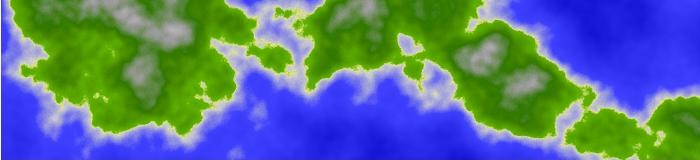
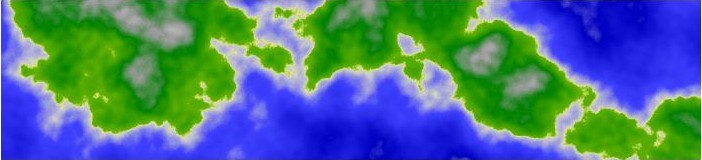
Big revision of Terra Map tutorial includes new diagrams and code tweaks

diff --git a/src/com/adonax/tutorial/pageContent/Terra.html b/src/com/adonax/tutorial/pageContent/Terra.html
@@ -114,60 +114,107 @@ value to index in and inspect the color data.</p>
 <p>For the purposes of the tutorial, I have created a ColorMap class
 which allows us to procedurally create a structure that we can
 index into. I made the length of the ColorMap equal 256, so we
-can use the same scaling we used for our color values previously.</p>
+can use the same scaling we used for our color values previously.
+The values used in this map can be seen in the following graphic, 
+where we show the data as it is held in the Color Gradient editing 
+tool that is located on the bottom right corner of the Texture 
+Editing tool.</p>
 
-<p>The gradients on the color map are created by interpolating
-the color values we place in the map as "pegs". If there were only
-two pegs, one of white and the other of blue, we would get the same
-result as we do for the Clouds colors. If the two pegs were the same
-shades of brown used in the Tree Rings example, the resulting
-intermediate colors would also be the same. In fact, the Texture 
-Tool's default is to use a structure very similar to the ColorMap 
-object I've provided.</p>
+<p><i><b>Fig. 1, Terra Color Map via the Color Gradient editing
+tool.</b></i></p>
+<img SRC="../images/TerraColorMap.JPG" width="306" height="362" 
+hspace="10" vspace="10" ALT="Terra Color Map"/>
 
-<p>The particular gradient I created is modeled on one shown in a
-tutorial by Shannon Smith (aka AngryOctapus at 
-http://www.angryoctopus.co.nz/?p=11). He says his gradient was a
-preset in Gimp. </p>
+<p>At the top of the diagram is a strip of continuously changing
+colors that shows the Color Map laid out from left to right. Below
+are a series of rows and columns that define and hold the <i>peg</i> 
+values. From left to right, the text fields hold the following data: 
+(1) pixel position, (2) a color swatch, (3) the Red value, (4) the 
+Green value, (5) the Blue value. Lastly, there are DEL buttons delete
+the given color peg.</p>
+
+<p>The <i>pegs</i> are fixed positions in the map that match the 
+indicated RGB values. The gradients in between the <i>pegs</i> are 
+created by linear interpolation the color values.</p>
+
+<p>In both the previous examples (<i>Tree Rings</i> and <i>Classic 
+Clouds</i>, the Texture Editor uses Color Maps in a way that matches
+the range of color values computed in the code examples. For the 
+Clouds, the noise values are scaled to 0 to 255 and placed into the
+Red and Green color channels. With a color mapping function, the 0 to
+255 indexes into the map to obtain the color data for all the color
+channels, and the values are the same since the map uses linear 
+interpolation.</p>
+
+<p>Likewise, with the Tree Rings, the noise values are given a 
+scaling and translation to fit within a certain range of browns. 
+With a color map, the two browns are set to be the first and last
+elements of the map, and a single scaling of the noise value to 0 to 
+255 is able to obtain all the color channels. Using a map can thus
+lead to an increase in efficiency when we would otherwise have to 
+apply different scaling & translating for each color.</p>
+
+<p>The <i>Terra Surface</i> texture is just a slightly more 
+complicated version of this in that there are more colors involved,
+and on the fly calculation of the individual color channels would be
+even more costly.</i>
+ 
+<p>The particular gradient used here is modeled on one shown 
+in a tutorial by Shannon Smith (aka <i>AngryOctapus</i> at <code>
+http://www.angryoctopus.co.nz/?p=11</code>). He says got this 
+gradient from a selection of preset gradients included in Gimp. I've
+done my best to match the colors by eye, but the matching could be 
+better, and I've left out the use of white at the far right of his 
+example due to being restricted to 8 pegs.</p>
 
 <p><i>[Shannon goes on to turn the 2D planet surface gradient into
-a 3D planet graphic, so you might want to take a look at that. I'm 
-not going to discuss 3D in this introductory tutorial.]</i></p> 
+a 3D planet graphic, so you might want to to check that out! I'm 
+not planning to get into 3D in this introductory tutorial.]</i></p> 
 
 <p>You can get a closer look at the gradient used in our example 
-by bringing it up in the ColorBar editing tool on the bottom right
-of the Texture Tool. From there, you can try tinkering with the 
-colors and their placements. Unfortunately, I limited the Color Map
-editing tool to 8 color pegs. Also limiting is that the only method
-used to bridge the pegs is linear interpolation. I did add the 
-ability to optionally interpolate over HSB color space, and added a 
-few short cut buttons for reversing direction and converting the 
-colors to their RGB "negatives." But much more could be accomplished, 
-I think, if some form of curve-fitting were made optionally possible.
-It would be good to be able to lessen the tendency of "cornering" 
-(discontinuities of direction) which tends to catch the eye at the 
+by bringing it up in the Color Gradient editing tool on the bottom 
+right of the Texture Tool. From there, you can try tinkering with 
+the colors and their placements. The tool has its limitations. In 
+addition to only allowing 8 color pegs, the only method used to 
+bridge the pegs is linear interpolation. Fancier tools will allow 
+more interesting forms of curve fitting. I did add the ability to 
+optionally interpolate over HSB color space, and added a few short 
+cut buttons for reversing direction or converting the colors to 
+their RGB "negatives." I think, if some form of curve-fitting were 
+possible, we might be able to lessen the tendency of "cornering"
+(discontinuities of direction) which tends to catch the eye at the
 peg points.</p>
 
 <p><b>Editing the sample code directly</b></p>
 
-<p>In addition to playing around with the texture values on the Texture
-Editing tool, I hope you are spending some time directly tinkering
-with the sample code. For this example, I'd like to just that.</p>
+<p>In addition to playing around with the texture values on the 
+Texture Editing tool, I hope you are spending some time directly 
+tinkering with the sample code. For this example, I'd like to just 
+that.</p>
 
-<p>One thing you might have noticed is that in the scaling and 
-volume arrays, I "skipped" octaves. This was, in part, because I
+<h2>Instructions for running the code at the top of this section can
+be found in the <i>Code Template</i> section of the tutorial. That 
+page contains the target text where you will paste the example code
+at the start of this tutorial section. You will also need both the
+Simplex and ColorMap sources (see the buttons on the right side
+of the <i>Contents</i> page.</h2> 
+
+<p>One thing you might have noticed is that the data in the scaling 
+and volume arrays skips octaves. This was, in part, because I
 wanted to have the terrain reflect a wider range of values than I 
-could fit in four contiguous octaves. With the code sample, though,
-we can add in the missing octaves and compare the result.</p>
+could fit in four contiguous octaves, in addition to wanting the 
+code examples to match the version loaded into the Texture Editor
+as closely as can be managed. With the code sample, though, it is 
+easy to add in the missing octaves and compare the result.</p>
 
-<p>So, try editing the code to add the three missing octaves. The
+<p>So, let's edit the code to add the three missing octaves. The
 <code>octaveScaling</code> array should contain the following values:  
 <code>{1, 2, 4, 8, 16, 32, 64}</code> and the <code>octaveAmplitudes
 </code> array should contain: <code>{64, 32, 16, 8, 4, 2, 1}</code>.
 Running this, I get the following image, which you can compare to
 the graphic at the top of this section.</p>
 
-<p><i><b>Fig. 1, Terra surface with 7 octaves.</b></i></p>
+<p><i><b>Fig. 2, Terra surface with 7 octaves.</b></i></p>
 <img SRC="../images/terra7channels.JPG" width="700" height="160" 
 hspace="0" vspace="0" ALT="Terra Surface with 7 channels"/>
 
@@ -175,66 +222,79 @@ hspace="0" vspace="0" ALT="Terra Surface with 7 channels"/>
 There is a bit more intermediate-level variety to the geography,
 but also a bit more activity near the center of the color map,
 and a bit of a reduction to the peaks of the mountains and the
-depth of the blue oceans. You may prefer it, but I think I will
-go back to my original set of four channels.</p>
+depth of the blue oceans. I'm not clear if this is just the result
+at this particular point in Simplex noise space, or if adding octaves
+tends to move things towards the middle. <i>[Another questions for 
+the mathematicians!]</i> You may prefer it, but I think I will go 
+back to the original set of four channels.</p>
 
 <p>Another idea for a change would be to edit or add more color 
-pegs. I was fiddling around and able to make one small improvement
-by altering the peg at position 64 to these setting: <code>
-{64, 48, 120, 0, 255}</code> and adding a peg at 72 with these
-settings: <code>{72, 64, 128, 0, 255}</code>, giving this part of
-the graphic a slightly browner tinge.</p>
+pegs. With the code version we aren't restricted to 8 pegs. One
+thing that could be done would be to add the transition from blue to
+white that is in the <i>AngryOctapus</i> tutorial example. </p>
+
+<pre>
+     int[][] pegs = { // location, R, B, G, alpha 
+                {0, 255, 255, 255, 255},
+                {40, 153, 153, 153, 255},
+                {64, 0, 128, 0, 255},
+                {95, 96, 176, 0, 255},
+                {99, 224, 224, 128, 255},
+                {100, 204, 204, 204, 255},
+                {128, 64, 64, 255, 255},
+                {204, 0, 0, 192, 255},
+                {255, 255, 255, 255, 255}};
+        int[][] colorMap = ColorMap.makeMap(pegs);
+</pre>
+
+<p>In the above, there has been a peg added at location 204, and is
+was given the color values that were previously in the end peg. The
+end peg was then edited to the color white. The result can be seen 
+below, albeit the change is subtle. The regions of the ocean that 
+were previously the deepest blue are now somewhat mottled.</p>
   
-<p><i><b>Fig. 2, Terra surface with a 9-peg color map</b> (adding
-a bit of browness to the texture)</i></p>
+<p><i><b>Fig. 3, Terra surface with a 9-peg color map</b></i></p>
 <img SRC="../images/terra9pegs.JPG" width="700" height="160" 
 hspace="0" vspace="0" ALT="Terra Surface with 9 color pegs"/>
 
-<p>One last idea for directly editing, is to purposefully bang into
-the end colors by expanding the range of the resulting values and 
+<p>One last idea for directly editing, is to purposefully run into
+the end colors by expanding the range of the noise values and 
 clamping. If we do this correctly we should be able to get a bit
-more white in the mountain peaks <i>and</i> deep blue for the ocean
-depths.</p>
+more white in the mountain peaks <i>and</i> bring out some more of
+the white that is now in the ocean end of the color map.</p>
 
 <p>Notice, that instead of coding the <i>smooth</i> normalization 
 function as <code>(1 - noiseSum)/2</code>, I used the algebraically
-equivalent function <code>(noiseSum * 0.5) + 0.5</code>. In this
-way we can more clearly see that the range has been halved and then
+equivalent function <code>(noiseSum * 0.5) + 0.5</code>. This
+way we can more clearly see how the range has been halved and 
 translated. Since we want the result to be slightly over-sized, 
-suppose we use the factor 0.7 instead. Then, instead of translating
-by 0.5, let's overshoot the 0 to 1 range by 0.1 on either side. This
-can be done by editing the line to the following:</p>
+suppose we use the factor 0.75 instead. Then, instead of translating
+by 0.5, let's overshoot the 0 to 1 range by 0.125 on either side. 
+This can be done by editing the line to the following:</p>
 
-<pre>    noiseSum = (noiseSum * 0.7) + 0.6;</pre>
+<pre>    noiseSum = (noiseSum * 0.75) + 0.625;</pre>
 
-<p>After multiplying by 255, the result will overshoot on both end,
-so we have to clamp the values with the Min and Max functions. The 
-resulting graphic follows:</p>
+<p>After multiplying by 255, the result will overshoot legal color
+values on both ends, so we have to clamp the values with the Min and
+Max functions. The resulting graphic follows:</p>
 
 <p><i><b>Fig. 3, Terra surface with a bit of clamping at either 
-end</b> and less activity in the middle</i></p>
+end</b></i></p>
 <img SRC="../images/terraClamps.JPG" width="700" height="160" 
 hspace="0" vspace="0" ALT="Terra Surface two-end clamping"/>
 
-<p>To add more ocean, we can translate the function upward by
-adding a larger amount, e.g., 0.7 instead of 0.6.</p>
+<p>In this image, the mountains are a bit more prominent, and the 
+white areas have come to resemble something close to cloud cover. Of 
+course, one could fiddle with the scaling and mapping in various
+ways. I might be tempted to emphasize the mountains more than the
+cloud cover, by translating a slightly smaller amount. One could
+also accomplish changes in the amount of white over the ocean by 
+editing the color map itself, perhaps moving the blue peg to a higher
+position. But as long as the noise values overshoot 255, the white 
+in the image will have something of that characteristic over-exposure 
+look.</p>
 
-<p><i><b>Fig. 4A, Terra surface with clamping at the top
-end of the ColorMap:</b> (more ocean)</i></p>
-<img SRC="../images/terraClampA.JPG" width="700" height="160" 
-hspace="0" vspace="0" ALT="Terra Surface with bottom end clamp"/>
-
-<p>To add more land mass, we can translate the function downward by
-adding less, e.g., 0.5 instead of 0.6. As you can see, the
-mountainous area also expands.</p>
-
-<p><i><b>Fig. 4B, Terra surface with clamping at the bottom
-end of the ColorMap</b> (more land mass)</i></p>
-<img SRC="../images/terraClampB.JPG" width="700" height="160" 
-hspace="0" vspace="0" ALT="Terra Surface with bottom end clamp"/>
-
- 
- <br><br><br><br><br>
+<br><br><br><br><br>
 
 </body>
 </HTML>

diff --git a/src/com/adonax/tutorial/TerraCard.java b/src/com/adonax/tutorial/TerraCard.java
@@ -58,7 +58,11 @@ public class TerraCard extends JPanel implements MouseListener,
 		double[] yScales = {1, 4, 16, 64};
 		double[] xTranslations = {0, 0, 0, 0};
 		double[] yTranslations = {0, 0, 0, 0};
-		double[] volumes = {0.8, 0.2, 0.05, 0.0125};
+		double[] volumes = {0.75294117647058823529411764705882,
+				0.18823529411764705882352941176471, 
+				0.047058823529411764705882352941176,
+				0.011764705882352941176470588235294};
+		
 		
 		image = MakeTexturedImage.make(700, 160, colorAxis, 
 				xScales, yScales, xTranslations, yTranslations,
